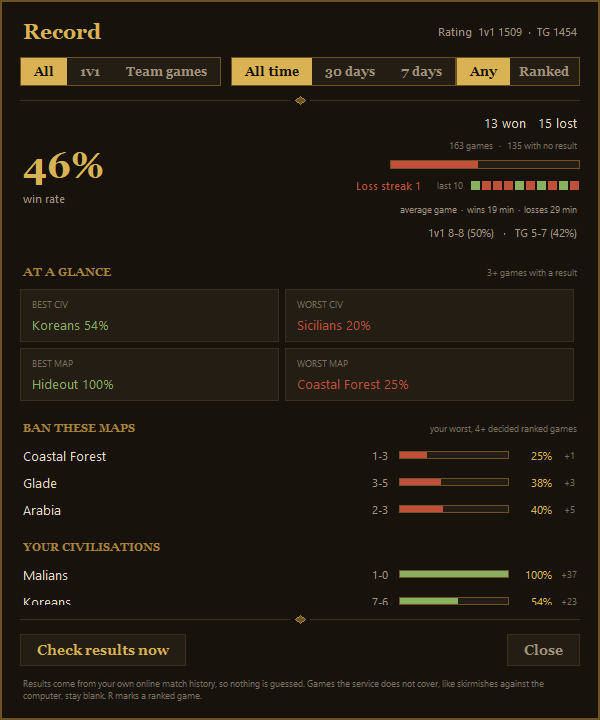
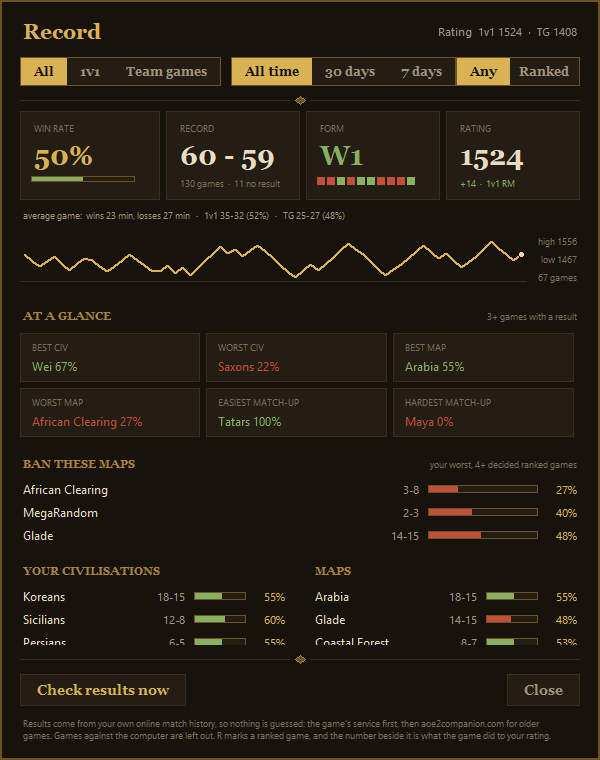
README: new Record window screenshot

diff --git a/README.md b/README.md
@@ -15,7 +15,7 @@ It tells you about the map, sizes up your opponent, and gives you a nudge when y
 - **Spots the enemy.** Says the colour out loud ("Red found") the first time they show up on your minimap.
 - **Nags you, nicely.** A red flash when your Town Center stops making villagers. A blue one when you need a house. A reminder at 18 population to check your two buildings for Feudal Age, and another at 16 minutes to do the same for Castle Age. You can change both numbers in Settings.
 - **Tells you when the game looks lost.** If you fall a long way behind on score, it lets you know. It never quits for you.
-- **Keeps your record.** Wins and losses by civ and by map, and which maps you should ban.
+- **Keeps your record.** Wins and losses by civ and by map, your rating game by game, and which maps you should ban.
 - **Rounds up your mates.** One button invites your friends to a ranked party, and can post the invite in Discord. It works from the end-of-game screen too: it takes you back to the main menu first.
 - **Pulls you back to the game.** If you're in another window when the match starts, it switches you over.
 
@@ -80,7 +80,7 @@ Start a ranked game. The bar opens up into the full panel by itself when the mat
 
 <p align="center"><img src="docs/folded.png" alt="The panel with the opponent folded up to one line" width="430"></p>
 
-<p align="center"><img src="docs/record.png" alt="The Record window with win rate, best and worst civs, and maps to ban" width="600"></p>
+<p align="center"><img src="docs/record.png" alt="The Record window with win rate, form, rating, best and worst civs, and maps to ban" width="600"></p>
 
 ## How to update
 
